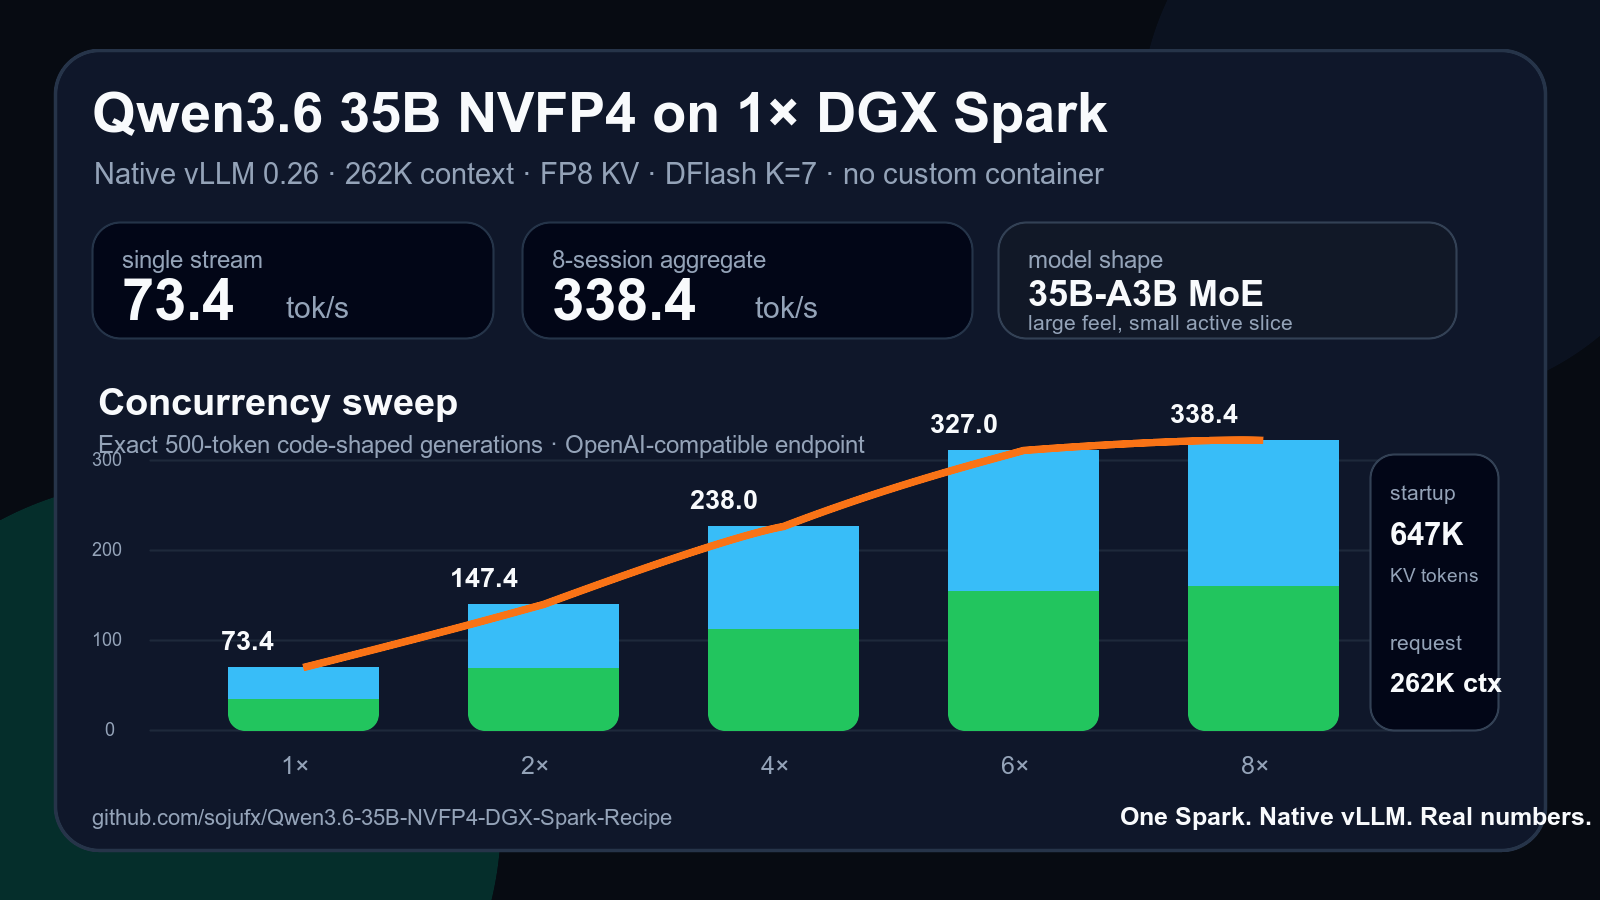
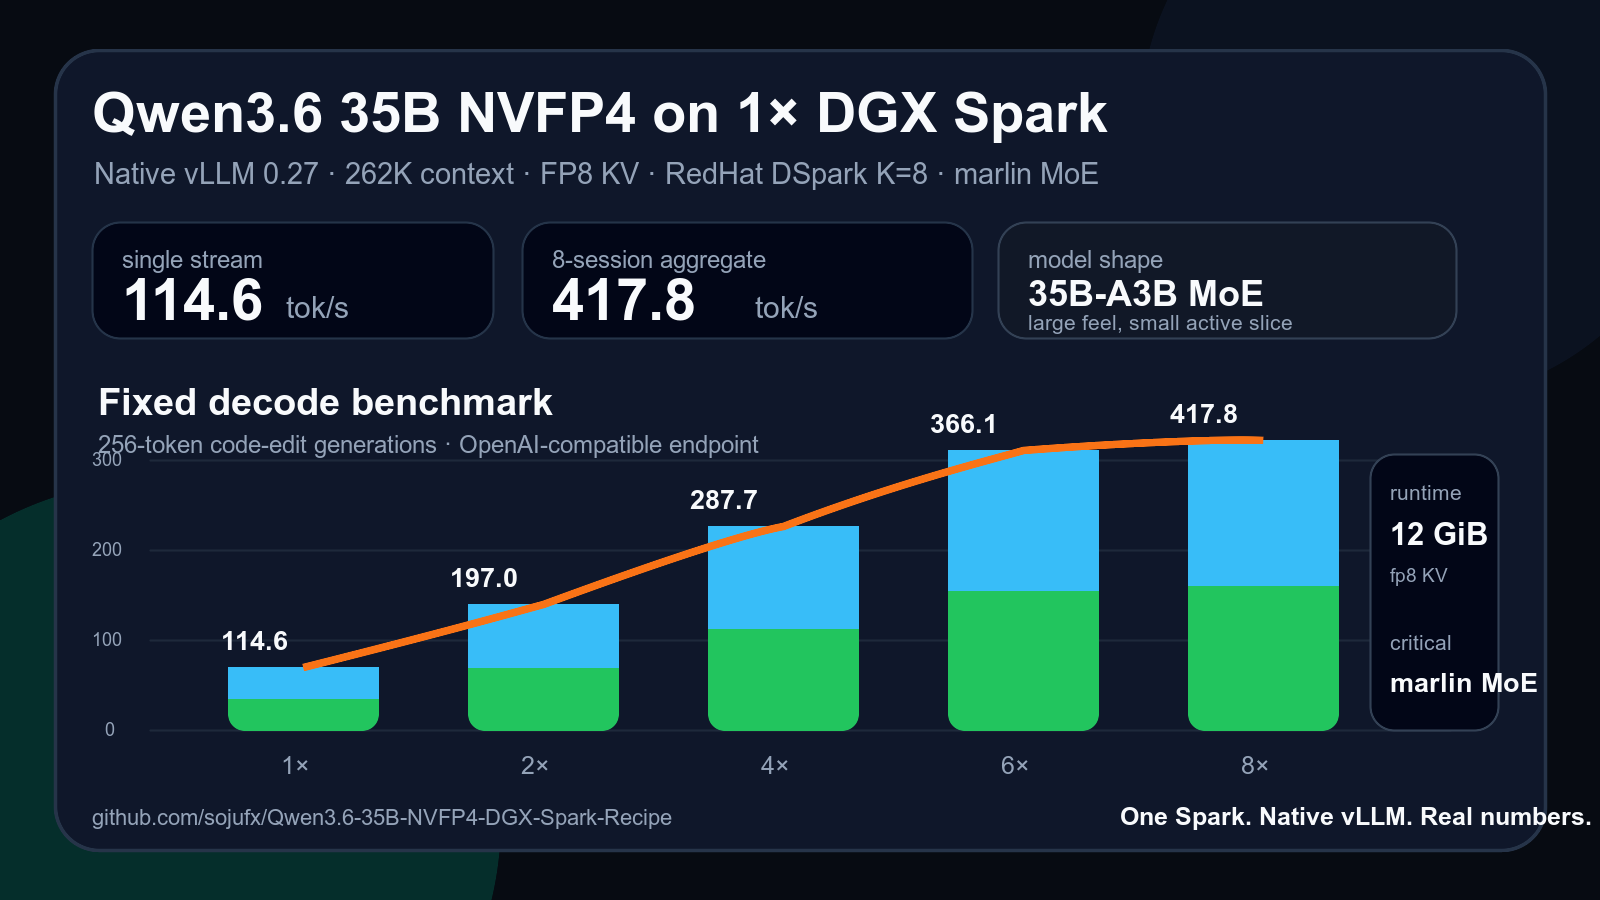
Add vLLM 0.27 RedHat DSpark profile

diff --git a/README.md b/README.md
@@ -1,8 +1,8 @@
 # Qwen3.6 35B NVFP4 on 1x DGX Spark
 
-A native vLLM `0.26` recipe for running `unsloth/Qwen3.6-35B-A3B-NVFP4` on a single NVIDIA DGX Spark / GB10 with 262K context, FP8 KV cache, DFlash speculative decoding, tool/reasoning parser support, and strong multi-session throughput.
+A native vLLM recipe for running `unsloth/Qwen3.6-35B-A3B-NVFP4` on a single NVIDIA DGX Spark / GB10 with 262K context, FP8 KV cache, speculative decoding, tool/reasoning parser support, and strong multi-session throughput.
 
-> Native vLLM. One Spark. 262K context. 338 tok/s aggregate.
+> Native vLLM. One Spark. 262K context. 417 tok/s aggregate.
 
 ![Qwen3.6 35B NVFP4 DGX Spark benchmark](assets/qwen36-spark-benchmark-card.png)
 
@@ -16,30 +16,56 @@ This recipe is focused on the native vLLM path:
 - existing venv/systemd production style
 - cached local model snapshots supported
 - 262,144-token context
-- DFlash K=7
-- 338.4 tok/s aggregate at 8 sessions in my benchmark
+- two tested speculative paths:
+  - vLLM `0.26` + DFlash K=7
+  - vLLM `0.27` + RedHatAI DSpark K=8
+- up to 417.8 tok/s aggregate at 8 sessions in my fixed decode benchmark
 
 The main value is reproducibility: this is not just a launch command, it includes the exact serve shape, autostart template, smoke test, and concurrency benchmark so other Spark owners can verify their own box instead of guessing.
 
-## Tested profile
+## Current tested production profile: vLLM 0.27 + RedHat DSpark
 
 ```text
 Hardware: NVIDIA DGX Spark / GB10 / 128GB unified memory
-Runtime: native vLLM 0.26.0 venv
+Runtime: native vLLM 0.27.1 venv
 Model: unsloth/Qwen3.6-35B-A3B-NVFP4
-Draft: z-lab/Qwen3.6-35B-A3B-DFlash
+Draft: RedHatAI/Qwen3.6-35B-A3B-speculator.dspark
 Context: 262,144 tokens
 KV cache: fp8
 KV cache memory: 12 GiB pinned
+MoE backend: marlin
 Linear backend: auto
 Attention backend: flashinfer
-Spec decode: DFlash, K=7
+Spec decode: DSpark, K=8
 Tool parser: qwen3_coder
 Reasoning parser: qwen3
-Vision: enabled, up to 4 images/request
+Thinking: enabled
 ```
 
-## My native vLLM 0.26 benchmark
+### vLLM 0.27 + RedHat DSpark benchmark
+
+Measured on one DGX Spark using native vLLM `0.27.1`, `--moe-backend marlin`, FP8 KV, and `RedHatAI/Qwen3.6-35B-A3B-speculator.dspark` at K=8.
+
+| Prompt | C1 | C2 aggregate | C4 aggregate | C8 aggregate |
+|---|---:|---:|---:|---:|
+| Agent/tool | 84.4 tok/s | 168.4 | 255.6 | 366.1 |
+| Code edit | 114.6 tok/s | 197.0 | 287.7 | 417.8 |
+| Generic | 99.0 tok/s | 136.8 | 239.5 | 324.4 |
+| Long-context review | 134.7 tok/s | 187.4 | 272.1 | 412.8 |
+
+Runtime notes from the same run:
+
+```text
+Max model length: 262,144
+Pinned KV cache: 12 GiB
+Memory after benchmark: ~51 GiB used, ~70 GiB available
+DSpark mean acceptance length during load: ~3.5-4.8
+DSpark draft acceptance during load: ~31-48%
+```
+
+Full notes: [`results/2026-08-11-native-vllm027-redhat-dspark-k8.md`](results/2026-08-11-native-vllm027-redhat-dspark-k8.md)
+
+## Earlier tested profile: vLLM 0.26 + DFlash
 
 Measured on one DGX Spark using native vLLM `0.26.0`, `linear-backend auto`, FP8 KV, and `z-lab/Qwen3.6-35B-A3B-DFlash` at K=7.
 
@@ -70,7 +96,7 @@ cd Qwen3.6-35B-NVFP4-DGX-Spark-Recipe
 
 export VLLM_API_KEY="change-me"
 
-./scripts/start-qwen-native-vllm026.sh
+./scripts/start-qwen-native-vllm027-redhat-dspark.sh
 ```
 
 OpenAI-compatible endpoint:
@@ -80,6 +106,31 @@ http://127.0.0.1:8000/v1
 ```
 
 ## Main serve flags
+
+Current vLLM `0.27` + RedHat DSpark profile:
+
+```bash
+--model unsloth/Qwen3.6-35B-A3B-NVFP4
+--tensor-parallel-size 1
+--trust-remote-code
+--moe-backend marlin
+--linear-backend auto
+--attention-backend flashinfer
+--kv-cache-dtype fp8
+--kv-cache-memory-bytes 12G
+--max-model-len 262144
+--max-num-seqs 16
+--max-num-batched-tokens 8192
+--enable-chunked-prefill
+--enable-prefix-caching
+--async-scheduling
+--speculative-config '{"method":"dspark","model":"RedHatAI/Qwen3.6-35B-A3B-speculator.dspark","num_speculative_tokens":8}'
+--tool-call-parser qwen3_coder
+--enable-auto-tool-choice
+--reasoning-parser qwen3
+```
+
+Earlier vLLM `0.26` + DFlash profile:
 
 ```bash
 --model unsloth/Qwen3.6-35B-A3B-NVFP4
@@ -104,11 +155,12 @@ http://127.0.0.1:8000/v1
 
 ## Important notes
 
-- Use vLLM `0.26.0` or newer with GB10/SM121 support.
+- Use a vLLM build with GB10/SM121 support.
 - Set `CUTE_DSL_ARCH=sm_121a`.
 - Use FP8 KV for 256K context.
+- On vLLM `0.27`, force `--moe-backend marlin` for this model. Leaving MoE on auto selected a CUTLASS FP4 MoE path on my box and crashed at first request.
 - This model can support image inputs when the runtime and client send multimodal chat messages correctly.
-- The benchmark in this repo is a short code-shaped decode test with exact 500-token outputs.
+- The benchmark in this repo is a short fixed decode test. Run your own long-context benchmark before changing production.
 - For long-context agent workloads, run your own benchmark before changing production.
 
 ## Credits
@@ -117,15 +169,18 @@ Built from our own DGX Spark experiments with:
 
 - [Unsloth Qwen3.6 35B NVFP4 model](https://huggingface.co/unsloth/Qwen3.6-35B-A3B-NVFP4)
 - [z-lab Qwen3.6 35B DFlash draft](https://huggingface.co/z-lab/Qwen3.6-35B-A3B-DFlash)
+- [RedHatAI Qwen3.6 35B DSpark speculator](https://huggingface.co/RedHatAI/Qwen3.6-35B-A3B-speculator.dspark)
 - [vLLM](https://github.com/vllm-project/vllm)
 - [FlashInfer](https://github.com/flashinfer-ai/flashinfer)
 
 ## Files
 
-- [`scripts/start-qwen-native-vllm026.sh`](scripts/start-qwen-native-vllm026.sh) — tested native vLLM launcher
+- [`scripts/start-qwen-native-vllm027-redhat-dspark.sh`](scripts/start-qwen-native-vllm027-redhat-dspark.sh) — current vLLM 0.27 + DSpark launcher
+- [`scripts/start-qwen-native-vllm026.sh`](scripts/start-qwen-native-vllm026.sh) — earlier native vLLM 0.26 + DFlash launcher
 - [`scripts/stop-qwen.sh`](scripts/stop-qwen.sh) — stop helper
 - [`scripts/benchmark-qwen.py`](scripts/benchmark-qwen.py) — OpenAI-compatible benchmark
 - [`systemd/qwen-vllm.service`](systemd/qwen-vllm.service) — optional autostart template
 - [`docs/CONFIG.md`](docs/CONFIG.md) — flag notes
 - [`docs/TROUBLESHOOTING.md`](docs/TROUBLESHOOTING.md) — common failures
+- [`results/2026-08-11-native-vllm027-redhat-dspark-k8.md`](results/2026-08-11-native-vllm027-redhat-dspark-k8.md) — measured vLLM 0.27 + DSpark result
 - [`results/2026-07-30-native-vllm026-dflash-k7.md`](results/2026-07-30-native-vllm026-dflash-k7.md) — measured native vLLM result

diff --git a/results/2026-08-11-native-vllm027-redhat-dspark-k8.md b/results/2026-08-11-native-vllm027-redhat-dspark-k8.md
@@ -1,0 +1,83 @@
+# Native vLLM 0.27 + RedHat DSpark K=8 result
+
+This result was measured on one NVIDIA DGX Spark / GB10 using native vLLM `0.27.1`.
+
+## Serve profile
+
+```text
+Hardware: NVIDIA DGX Spark / GB10 / 128GB unified memory
+Runtime: native vLLM 0.27.1
+Model: unsloth/Qwen3.6-35B-A3B-NVFP4
+Speculator: RedHatAI/Qwen3.6-35B-A3B-speculator.dspark
+Spec decode: DSpark, K=8
+Context: 262,144 tokens
+KV cache dtype: fp8
+KV cache memory: 12 GiB pinned
+MoE backend: marlin
+Attention backend: flashinfer
+Max num seqs: 16
+Max batched tokens: 8192
+Prefix caching: enabled
+Chunked prefill: enabled
+Thinking: enabled
+Tool parser: qwen3_coder
+Reasoning parser: qwen3
+```
+
+## Why `--moe-backend marlin` matters
+
+On this setup, leaving MoE backend on `auto` under vLLM `0.27.1` selected a CUTLASS FP4 MoE path and crashed on first request:
+
+```text
+RuntimeError: run_fp4_blockwise_scaled_group_mm_sm120
+Failed to initialize GEMM: status=7
+workspace_size=43008 num_experts=256 M=65536 N=1024 K=2048
+```
+
+Forcing:
+
+```bash
+--moe-backend marlin
+```
+
+made the same model and DSpark speculator boot and serve normally.
+
+## Fixed decode benchmark
+
+Benchmark command:
+
+```bash
+python3 /home/sojufx/benchmarks/vllm_fixed_decode_bench.py \
+  --api http://127.0.0.1:8000/v1/chat/completions \
+  --model ornith \
+  --all-prompts \
+  --max-tokens 256 \
+  --temperature 0 \
+  --concurrency 1,2,4,8 \
+  --repeat 1
+```
+
+| Prompt | C1 | C2 aggregate | C4 aggregate | C8 aggregate |
+|---|---:|---:|---:|---:|
+| Agent/tool | 84.4 tok/s | 168.4 | 255.6 | 366.1 |
+| Code edit | 114.6 tok/s | 197.0 | 287.7 | 417.8 |
+| Generic | 99.0 tok/s | 136.8 | 239.5 | 324.4 |
+| Long-context review | 134.7 tok/s | 187.4 | 272.1 | 412.8 |
+
+## Runtime metrics observed
+
+During the benchmark, vLLM reported:
+
+```text
+GPU KV cache usage: up to ~40.4% at C8, then back to 0.0%
+Memory after benchmark: ~51 GiB used, ~70 GiB available
+DSpark mean acceptance length: ~3.5-4.8
+DSpark average draft acceptance: ~31-48%
+```
+
+## Notes
+
+- This is a short fixed-output benchmark, not a full agent benchmark.
+- Code-shaped prompts were fastest in this run.
+- Long-context production behavior still depends on active user count, prompt length, and prefix-cache reuse.
+- If tool calling behaves strangely, inspect the structured-output parser path first; one run logged non-fatal `backend_xgrammar` FSM warnings while still returning HTTP 200.

diff --git a/docs/CONFIG.md b/docs/CONFIG.md
@@ -1,5 +1,27 @@
 # Configuration notes
 
+## Native vLLM 0.27 + RedHat DSpark profile tested locally
+
+```bash
+--max-model-len 262144
+--max-num-seqs 16
+--max-num-batched-tokens 8192
+--gpu-memory-utilization 0.65
+--kv-cache-memory-bytes 12G
+--moe-backend marlin
+--linear-backend auto
+--attention-backend flashinfer
+--kv-cache-dtype fp8
+--enable-chunked-prefill
+--enable-prefix-caching
+--async-scheduling
+--speculative-config '{"method":"dspark","model":"RedHatAI/Qwen3.6-35B-A3B-speculator.dspark","num_speculative_tokens":8}'
+```
+
+This profile measured up to 417.8 tok/s aggregate at C8 on the fixed code-edit benchmark.
+
+The important part is `--moe-backend marlin`. On vLLM 0.27, `auto` selected a CUTLASS FP4 MoE path on my Spark and crashed on first request.
+
 ## Native vLLM 0.26 profile tested locally
 
 ```bash
@@ -57,6 +79,18 @@ This measured best in our short code-shaped concurrency run. If your Spark gets 
 ```
 
 K=7 was the stable choice in this recipe. Increasing K can look faster in short bursts, but it can waste compute if later draft positions are rarely accepted.
+
+## RedHat DSpark speculative decode
+
+```json
+{
+  "method": "dspark",
+  "model": "RedHatAI/Qwen3.6-35B-A3B-speculator.dspark",
+  "num_speculative_tokens": 8
+}
+```
+
+K=8 is the profile tested with vLLM 0.27. During load, acceptance varied by prompt shape, but mean acceptance length was roughly 3.5-4.8 in the benchmark run.
 
 ## Tool use and reasoning
 

diff --git a/docs/TROUBLESHOOTING.md b/docs/TROUBLESHOOTING.md
@@ -24,6 +24,34 @@ Try safer values:
 
 If the box gets power-limited after OOM, do a full shutdown, unplug power briefly, then boot again.
 
+## vLLM 0.27 crashes with CUTLASS FP4 MoE
+
+If vLLM 0.27 starts but crashes on first request with something like:
+
+```text
+RuntimeError: run_fp4_blockwise_scaled_group_mm_sm120
+Failed to initialize GEMM: status=7
+workspace_size=43008 num_experts=256 M=65536 N=1024 K=2048
+```
+
+force Marlin for MoE:
+
+```bash
+--moe-backend marlin
+```
+
+This avoids the CUTLASS FP4 MoE path that failed on my GB10 setup.
+
+## Non-fatal xgrammar FSM warnings
+
+During one vLLM 0.27 benchmark, the server logged:
+
+```text
+backend_xgrammar.py ... Failed to advance FSM
+```
+
+The request still returned HTTP 200. If tool calls or structured output behave strangely, inspect the tool parser / structured-output path before blaming the model weights.
+
 ## Container starts but endpoint is not ready
 
 Check logs:
